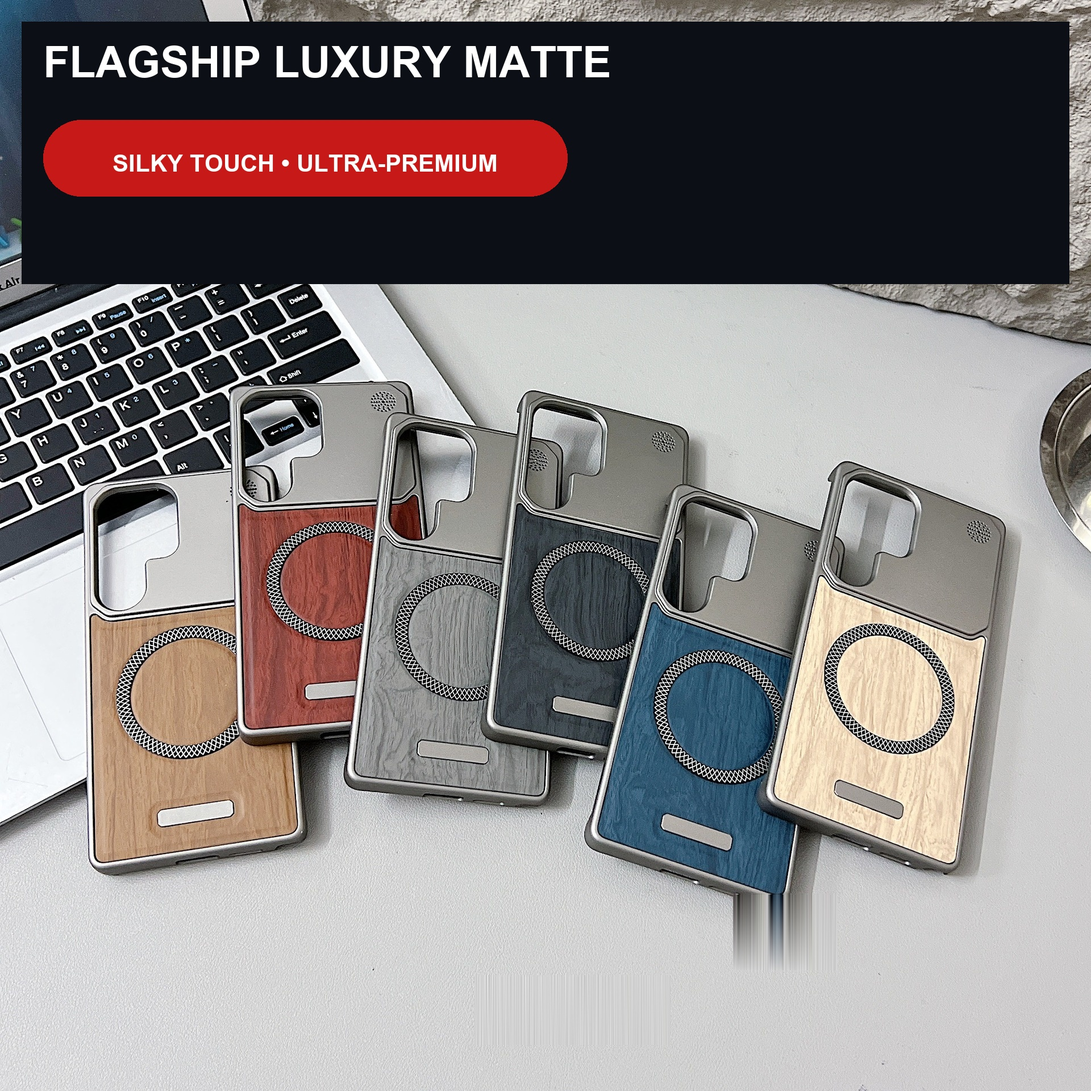
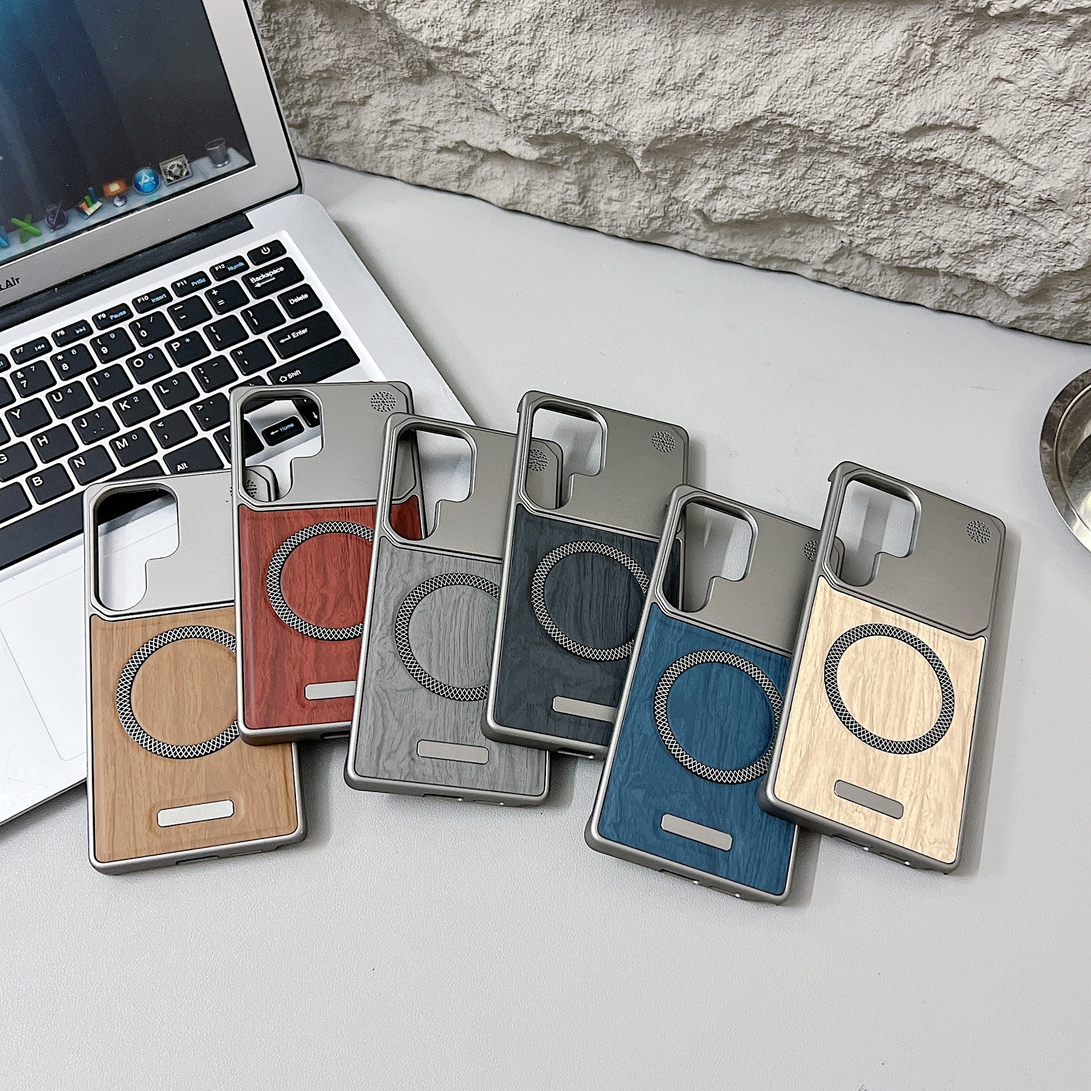
fix(translate): overhaul image translator to preserve clean photography and fix headline inpainting

Changed region(s): [[0.0, 0.0, 1.0, 0.2812], [0.6562, 0.8125, 0.75, 0.875]]

diff --git a/scripts/image_translator.py b/scripts/image_translator.py
@@ -473,6 +473,18 @@ class ImageTranslator:
             if x2 <= x1 or y2 <= y1:
                 continue
 
+            # Strict guard against smearing clean non-watermarked areas or subject matter:
+            # Watermarks only exist on flat uniform backgrounds where top/bottom borders match.
+            top_pixels = [im.getpixel((x, max(0, y1 - 2)))[:3] for x in range(x1, x2)]
+            bot_pixels = [im.getpixel((x, min(h - 1, y2 + 2)))[:3] for x in range(x1, x2)]
+            avg_diff = sum(sum(abs(top_pixels[i][c] - bot_pixels[i][c]) for c in range(3)) for i in range(len(top_pixels))) / len(top_pixels)
+            rv = max(p[0] for p in top_pixels) - min(p[0] for p in top_pixels)
+            gv = max(p[1] for p in top_pixels) - min(p[1] for p in top_pixels)
+            bv = max(p[2] for p in top_pixels) - min(p[2] for p in top_pixels)
+            max_v = max(rv, gv, bv)
+            if avg_diff > 35 or max_v > 35:
+                continue
+
             top_sample = im.getpixel((int((x1 + x2) / 2), max(0, y1 - 2)))[:3]
 
             # Sample patch center with dense grid to detect thin watermark text strokes
@@ -490,8 +502,6 @@ class ImageTranslator:
                 for p in center_samples
             )
             if has_contrast:
-                top_pixels = [im.getpixel((x, max(0, y1 - 2)))[:3] for x in range(x1, x2)]
-                bot_pixels = [im.getpixel((x, min(h - 1, y2 + 2)))[:3] for x in range(x1, x2)]
                 bh = y2 - y1
                 for y in range(y1, y2):
                     fy = (y - y1) / float(bh - 1) if bh > 1 else 0.0
@@ -662,9 +672,13 @@ class ImageTranslator:
         material: str,
     ):
         """Translates Hard PC / Magnetic Matte gallery images across 800x800 and 1600x1600."""
-        # gallery_01: Magnetic Frosted showcase + packaging box spine
+        # gallery_01: Check for top headline banner or packaging box spine
         if "01" in fname:
-            if w >= 1200:
+            # 1. Check for packaging box spine (e.g. Honor X80i / Realme Neo8 1600x1600 AF Lens Showcase)
+            px = [im.getpixel((int(0.04 * w), int(y * h)))[:3] for y in [0.2, 0.4, 0.6, 0.8]]
+            is_spine = all(abs(c[0] - 56) < 15 and abs(c[1] - 60) < 15 and abs(c[2] - 71) < 15 for c in px)
+
+            if is_spine and w >= 1200:
                 # 1600x1600 Magnetic Matte AF Lens Showcase (Honor X80i style)
                 # 1. Left Spine Box (covers vertical Chinese on box spine completely)
                 spine_box = self.scale_box((0.015, 0.10, 0.08, 0.90), w, h)
@@ -719,57 +733,85 @@ class ImageTranslator:
                     draw.text((scaled_b[0] + (scaled_b[2] - scaled_b[0] - bw) // 2, scaled_b[1] + (scaled_b[3] - scaled_b[1] - bh) // 2), b_text, fill=(30, 30, 30), font=f_sm)
                 return
 
-            # 800x800 Frosted PC showcase (Realme Neo8 style)
-            bg = (175, 175, 175)
+            # 2. Check for Top Horizontal Headline Banner (e.g. S26 Ultra Wood Grain '无边框木纹磁吸壳')
+            headline_box = (int(0.24 * w), int(0.01 * h), int(0.98 * w), int(0.13 * h))
+            crop_hl = im.crop(headline_box)
+            dark_hl = sum(1 for x in range(0, crop_hl.width, 5) for y in range(0, crop_hl.height, 5) if sum(crop_hl.getpixel((x, y))) / 3 < 50)
+            tot_hl = sum(1 for x in range(0, crop_hl.width, 5) for y in range(0, crop_hl.height, 5))
+            has_top_headline = (dark_hl / tot_hl) > 0.12 if tot_hl > 0 else False
 
-            # Block 1: Title covering '磁吸磨砂壳' without cutting glyphs
-            title_box = self.scale_box((0.55, 0.32, 1.0, 0.45), w, h)
-            draw.rectangle(title_box, fill=bg)
-            f_title, tw, th, _ = self.fit_text(draw, "MAGNETIC", "arialbd.ttf", int(0.40 * w), int(0.055 * h), start_size=int(0.045 * w))
-            draw.text((int(0.70 * w), int(0.335 * h)), "MAGNETIC", fill=(255, 255, 255), font=f_title)
-            draw.text((int(0.70 * w), int(0.390 * h)), "FROSTED", fill=(255, 255, 255), font=f_title)
+            if has_top_headline:
+                from PIL import ImageFilter
+                # Clone clean background texture from immediately below the text banner
+                sample_y1 = int(0.135 * h)
+                sample_y2 = int(0.150 * h)
+                sample_x1 = int(0.380 * w)
+                sample_x2 = int(0.780 * w)
 
-            # Block 2: Icon labels covering '磨砂背板' and old labels
-            icon_box = self.scale_box((0.55, 0.515, 1.0, 0.565), w, h)
-            draw.rectangle(icon_box, fill=bg)
-            f_icon, _, _, _ = self.fit_text(draw, "FROSTED", "segoeui.ttf", int(0.12 * w), int(0.025 * h), start_size=int(0.016 * w))
-            draw.text((int(0.72 * w), int(0.525 * h)), "FROSTED", fill=(255, 255, 255), font=f_icon)
-            draw.text((int(0.83 * w), int(0.525 * h)), "DROP-PROOF", fill=(255, 255, 255), font=f_icon)
-            draw.text((int(0.93 * w), int(0.525 * h)), "ANTI-SMUDGE", fill=(255, 255, 255), font=f_icon)
+                sample_patch = im.crop((sample_x1, sample_y1, sample_x2, sample_y2))
+                banner_x1 = int(0.240 * w)
+                banner_y1 = int(0.012 * h)
+                banner_w = int(0.740 * w)
+                banner_h = int(0.118 * h)
 
-            # Block 3: Compatible covering '适用于:'
-            comp_box = self.scale_box((0.55, 0.59, 0.95, 0.655), w, h)
-            draw.rectangle(comp_box, fill=bg)
-            f_comp, _, _, _ = self.fit_text(draw, "COMPATIBLE:", "segoeuib.ttf", int(0.35 * w), int(0.035 * h), start_size=int(0.028 * w))
-            draw.text((int(0.70 * w), int(0.605 * h)), "COMPATIBLE:", fill=(255, 255, 255), font=f_comp)
+                bg_fill = sample_patch.resize((banner_w, banner_h)).filter(ImageFilter.GaussianBlur(radius=int(max(2, 0.003 * w))))
+                im.paste(bg_fill, (banner_x1, banner_y1))
+
+                title_text = "FRAMELESS WOOD GRAIN MAGNETIC" if "wood" in model_name.lower() or "s26" in model_name.lower() else f"OFFICIAL {model_name.upper()} CASE"
+                try:
+                    font_title = ImageFont.truetype("C:/Windows/Fonts/impact.ttf", int(0.052 * w))
+                except Exception:
+                    font_title = ImageFont.truetype("C:/Windows/Fonts/arialbd.ttf", int(0.046 * w))
+
+                tx = banner_x1 + int(0.01 * w)
+                ty = banner_y1 + int(0.03 * h)
+                for ox in range(-3, 4):
+                    for oy in range(-3, 4):
+                        if ox != 0 or oy != 0:
+                            draw.text((tx + ox, ty + oy), title_text, font=font_title, fill=(30, 30, 30))
+
+                draw.text((tx, ty), title_text, font=font_title, fill=(255, 255, 255))
+                return
+
+            # 3. Check for 800x800 Frosted PC showcase (Realme Neo8 style right-hand banner)
+            corner_col = im.getpixel((int(0.05 * w), int(0.05 * h)))[:3]
+            is_legacy_frosted = abs(corner_col[0] - 175) < 35 and abs(corner_col[1] - 175) < 35 and abs(corner_col[2] - 175) < 35
+
+            if is_legacy_frosted:
+                bg = (175, 175, 175)
+
+                # Block 1: Title covering '磁吸磨砂壳' without cutting glyphs
+                title_box = self.scale_box((0.55, 0.32, 1.0, 0.45), w, h)
+                draw.rectangle(title_box, fill=bg)
+                f_title, tw, th, _ = self.fit_text(draw, "MAGNETIC", "arialbd.ttf", int(0.40 * w), int(0.055 * h), start_size=int(0.045 * w))
+                draw.text((int(0.70 * w), int(0.335 * h)), "MAGNETIC", fill=(255, 255, 255), font=f_title)
+                draw.text((int(0.70 * w), int(0.390 * h)), "FROSTED", fill=(255, 255, 255), font=f_title)
+
+                # Block 2: Icon labels covering '磨砂背板' and old labels
+                icon_box = self.scale_box((0.55, 0.515, 1.0, 0.565), w, h)
+                draw.rectangle(icon_box, fill=bg)
+                f_icon, _, _, _ = self.fit_text(draw, "FROSTED", "segoeui.ttf", int(0.12 * w), int(0.025 * h), start_size=int(0.016 * w))
+                draw.text((int(0.72 * w), int(0.525 * h)), "FROSTED", fill=(255, 255, 255), font=f_icon)
+                draw.text((int(0.83 * w), int(0.525 * h)), "DROP-PROOF", fill=(255, 255, 255), font=f_icon)
+                draw.text((int(0.93 * w), int(0.525 * h)), "ANTI-SMUDGE", fill=(255, 255, 255), font=f_icon)
+
+                # Block 3: Compatible covering '适用于:'
+                comp_box = self.scale_box((0.55, 0.59, 0.95, 0.655), w, h)
+                draw.rectangle(comp_box, fill=bg)
+                f_comp, _, _, _ = self.fit_text(draw, "COMPATIBLE:", "segoeuib.ttf", int(0.35 * w), int(0.035 * h), start_size=int(0.028 * w))
+                draw.text((int(0.70 * w), int(0.605 * h)), "COMPATIBLE:", fill=(255, 255, 255), font=f_comp)
+                return
+
+            # Clean product photography with no Chinese text: leave pristine
             return
 
         # gallery_02: Scratch Resistant / Studio Backdrop
         if "02" in fname:
-            sample_col = im.getpixel((int(0.10 * w), int(0.05 * h)))[:3]
-            if sum(sample_col) > 400:
-                # Light studio textured backdrop: Frosted PC header pill
-                header_box = self.scale_box((0.20, 0.02, 0.80, 0.19), w, h)
-                draw.rectangle(header_box, fill=(246, 246, 246))
-                f_title, tw, th, _ = self.fit_text(draw, "FROSTED PC · MAGNETIC", "arialbd.ttf", int(0.55 * w), int(0.055 * h), start_size=int(0.038 * w))
-                draw.text((header_box[0] + (header_box[2] - header_box[0] - tw) // 2, header_box[1] + int(0.02 * h)), "FROSTED PC · MAGNETIC", fill=(25, 25, 25), font=f_title)
+            corner_col = im.getpixel((int(0.05 * w), int(0.05 * h)))[:3]
+            is_dark_infographic = sum(corner_col) < 120 and max(corner_col) < 50
 
-                model_lbl = f"FOR {model_name.upper()}"
-                f_p1, mw, mh, _ = self.fit_text(draw, model_lbl, "arialbd.ttf", int(0.26 * w), int(0.035 * h), start_size=int(0.019 * w))
-                p1_w = mw + int(0.03 * w)
-                p1_h = int(0.055 * h)
-                p1_x = header_box[0] + int(0.02 * w)
-                p1_y = header_box[1] + int(0.09 * h)
-                draw.rounded_rectangle([p1_x, p1_y, p1_x + p1_w, p1_y + p1_h], radius=int(0.025 * h), fill=(255, 255, 255), outline=(220, 220, 225), width=1)
-                draw.text((p1_x + (p1_w - mw) // 2, p1_y + (p1_h - mh) // 2), model_lbl, fill=(30, 30, 35), font=f_p1)
-
-                f_p2, cw, ch, _ = self.fit_text(draw, "PEAK ROCK", "arialbd.ttf", int(0.26 * w), int(0.035 * h), start_size=int(0.019 * w))
-                p2_w = cw + int(0.03 * w)
-                p2_x = p1_x + p1_w + int(0.02 * w)
-                draw.rounded_rectangle([p2_x, p1_y, p2_x + p2_w, p1_y + p1_h], radius=int(0.025 * h), fill=(20, 20, 25))
-                draw.text((p2_x + (p2_w - cw) // 2, p1_y + (p1_h - ch) // 2), "PEAK ROCK", fill=(255, 255, 255), font=f_p2)
-            else:
-                # Dark technical backdrop
+            if is_dark_infographic:
+                # Dark technical backdrop (Realme Neo8 / Honor X80i infographic)
                 top_box = self.scale_box((0.02, 0.02, 0.98, 0.26), w, h)
                 self.inpaint_gradient(im, top_box, c_top=(12, 16, 22), c_bottom=(12, 16, 22))
                 title = "SCRATCH & ABRASION RESISTANT"
@@ -781,12 +823,46 @@ class ImageTranslator:
                 tag = "DURABLE HARD PC MATERIAL"
                 f_tag, _, _, _ = self.fit_text(draw, tag, "arialbd.ttf", int(0.92 * w), int(0.035 * h), start_size=int(0.024 * w))
                 draw.text((int(0.04 * w), int(0.155 * h)), tag, fill=(255, 120, 0), font=f_tag)
+                return
+
+            # Check for light studio infographic with Chinese text in header box
+            header_box = (int(0.20 * w), int(0.02 * h), int(0.80 * w), int(0.19 * h))
+            crop_h = im.crop(header_box)
+            dark_count = sum(1 for x in range(0, crop_h.width, 5) for y in range(0, crop_h.height, 5) if sum(crop_h.getpixel((x, y))) / 3 < 50)
+            tot_h = sum(1 for x in range(0, crop_h.width, 5) for y in range(0, crop_h.height, 5))
+            has_light_header = (dark_count / tot_h) > 0.08 if tot_h > 0 else False
+
+            if has_light_header and sum(corner_col) > 400:
+                # Light studio textured backdrop: Frosted PC header pill
+                h_box = self.scale_box((0.20, 0.02, 0.80, 0.19), w, h)
+                draw.rectangle(h_box, fill=(246, 246, 246))
+                f_title, tw, th, _ = self.fit_text(draw, "FROSTED PC · MAGNETIC", "arialbd.ttf", int(0.55 * w), int(0.055 * h), start_size=int(0.038 * w))
+                draw.text((h_box[0] + (h_box[2] - h_box[0] - tw) // 2, h_box[1] + int(0.02 * h)), "FROSTED PC · MAGNETIC", fill=(25, 25, 25), font=f_title)
+
+                model_lbl = f"FOR {model_name.upper()}"
+                f_p1, mw, mh, _ = self.fit_text(draw, model_lbl, "arialbd.ttf", int(0.26 * w), int(0.035 * h), start_size=int(0.019 * w))
+                p1_w = mw + int(0.03 * w)
+                p1_h = int(0.055 * h)
+                p1_x = h_box[0] + int(0.02 * w)
+                p1_y = h_box[1] + int(0.09 * h)
+                draw.rounded_rectangle([p1_x, p1_y, p1_x + p1_w, p1_y + p1_h], radius=int(0.025 * h), fill=(255, 255, 255), outline=(220, 220, 225), width=1)
+                draw.text((p1_x + (p1_w - mw) // 2, p1_y + (p1_h - mh) // 2), model_lbl, fill=(30, 30, 35), font=f_p1)
+
+                f_p2, cw, ch, _ = self.fit_text(draw, "PEAK ROCK", "arialbd.ttf", int(0.26 * w), int(0.035 * h), start_size=int(0.019 * w))
+                p2_w = cw + int(0.03 * w)
+                p2_x = p1_x + p1_w + int(0.02 * w)
+                draw.rounded_rectangle([p2_x, p1_y, p2_x + p2_w, p1_y + p1_h], radius=int(0.025 * h), fill=(20, 20, 25))
+                draw.text((p2_x + (p2_w - cw) // 2, p1_y + (p1_h - ch) // 2), "PEAK ROCK", fill=(255, 255, 255), font=f_p2)
+                return
+
+            # Clean product photography with no Chinese text: leave pristine
             return
 
         # gallery_03: Raised Camera Frame & Lens Protection
         if "03" in fname:
-            sample_col = im.getpixel((int(0.05 * w), int(0.05 * h)))[:3]
-            is_beige = sum(sample_col) > 500
+            corner_col = im.getpixel((int(0.05 * w), int(0.05 * h)))[:3]
+            is_beige = abs(corner_col[0] - 235) < 25 and abs(corner_col[1] - 222) < 25 and abs(corner_col[2] - 205) < 25
+            is_dark = sum(corner_col) < 120 and max(corner_col) < 50
 
             if is_beige:
                 # Extended box down to 0.49H to completely eliminate '保护手机镜头防刮花...'
@@ -799,7 +875,8 @@ class ImageTranslator:
                 f_sub, _, _, _ = self.fit_text(draw, "Precision bezel design shields camera lenses", "segoeui.ttf", int(0.56 * w), int(0.030 * h), start_size=int(0.020 * w))
                 draw.text((int(0.04 * w), int(0.190 * h)), "Precision bezel design shields camera lenses", fill=(70, 60, 55), font=f_sub)
                 draw.text((int(0.04 * w), int(0.225 * h)), "against scratches, drops, and everyday wear.", fill=(70, 60, 55), font=f_sub)
-            else:
+                return
+            elif is_dark:
                 top_box = self.scale_box((0.02, 0.02, 0.98, 0.26), w, h)
                 self.inpaint_gradient(im, top_box, c_top=(12, 16, 22), c_bottom=(12, 16, 22))
                 title = "FLAGSHIP LUXURY MATTE"
@@ -810,11 +887,19 @@ class ImageTranslator:
                 draw.rounded_rectangle(badge_box, radius=int(0.035 * h), fill=(200, 25, 25))
                 f_pill, pw, ph, _ = self.fit_text(draw, "SILKY TOUCH • ULTRA-PREMIUM", "arialbd.ttf", int(0.44 * w), int(0.045 * h), start_size=int(0.022 * w))
                 draw.text((badge_box[0] + (badge_box[2] - badge_box[0] - pw) // 2, badge_box[1] + (badge_box[3] - badge_box[1] - ph) // 2), "SILKY TOUCH • ULTRA-PREMIUM", fill=(255, 255, 255), font=f_pill)
-            return
+                return
 
+            # Clean product photography with no Chinese text: leave pristine
+            return
 
         # gallery_04: Precision Dust Mesh
         if "04" in fname:
+            corner_col = im.getpixel((int(0.05 * w), int(0.05 * h)))[:3]
+            is_dark_infographic = sum(corner_col) < 120 and max(corner_col) < 50
+            if not is_dark_infographic:
+                # Clean studio photography: leave pristine
+                return
+
             top_box = self.scale_box((0.02, 0.02, 0.98, 0.28), w, h)
             self.inpaint_gradient(im, top_box, c_top=(15, 18, 26), c_bottom=(15, 18, 26))
             f_title, _, _, _ = self.fit_text(draw, "PRECISION DUST MESH", "arialbd.ttf", int(0.90 * w), int(0.065 * h), start_size=int(0.038 * w))
@@ -832,6 +917,12 @@ class ImageTranslator:
 
         # gallery_05: Upgraded Frame & Comparison
         if "05" in fname:
+            corner_col = im.getpixel((int(0.05 * w), int(0.05 * h)))[:3]
+            is_dark_infographic = sum(corner_col) < 120 and max(corner_col) < 50
+            if not is_dark_infographic:
+                # Clean studio photography: leave pristine
+                return
+
             top_box = self.scale_box((0.02, 0.02, 0.98, 0.25), w, h)
             self.inpaint_gradient(im, top_box, c_top=(12, 16, 22), c_bottom=(12, 16, 22))
             title = "UPGRADED FRAME & BACKPLATE"
@@ -1034,6 +1125,17 @@ class ImageTranslator:
         clean_col: str,
     ):
         """Translates Frosted PC / Hard PC SKU images across (800x800, 1600x1600)."""
+        # Guard: Only translate if image actually contains Chinese infographic header banner text
+        box_probe = (int(0.20 * w), int(0.02 * h), int(0.80 * w), int(0.19 * h))
+        crop_probe = im.crop(box_probe)
+        dark_count = sum(1 for x in range(0, crop_probe.width, 10) for y in range(0, crop_probe.height, 10) if sum(crop_probe.getpixel((x, y))) / 3 < 50)
+        tot_probe = sum(1 for x in range(0, crop_probe.width, 10) for y in range(0, crop_probe.height, 10))
+        has_header_text = (dark_count / tot_probe) > 0.08 if tot_probe > 0 else False
+
+        if not has_header_text:
+            # Clean product photography with no Chinese text banner: leave 100% pristine
+            return
+
         box = self.scale_box((0.20, 0.02, 0.80, 0.19), w, h)
         draw.rectangle(box, fill=(246, 246, 246))
 
@@ -1175,9 +1277,35 @@ class ImageTranslator:
         }
 
     def _infer_color_from_sku(self, sku_code: str) -> str:
-        """Derives clean color name from SKU abbreviation token."""
-        code_upper = sku_code.upper()
+        """Derives clean color name from inventory.csv or SKU abbreviation token."""
+        code_upper = sku_code.upper().strip()
+
+        # 1. First check live inventory.csv if available
+        inv_path = os.path.abspath(os.path.join(os.path.dirname(__file__), "..", "inventory.csv"))
+        if os.path.exists(inv_path):
+            try:
+                import csv
+                with open(inv_path, "r", encoding="utf-8-sig") as f:
+                    for r in csv.DictReader(f):
+                        c = r.get("Product Code", "").strip().upper()
+                        col = r.get("Color", "").strip()
+                        if c and col and c == code_upper:
+                            return col
+            except Exception:
+                pass
+
+        # 2. Comprehensive SKU token color mapping
         mapping = {
+            "-LG-": "Light Gray Wood Grain",
+            "-DG-": "Dark Gray Wood Grain",
+            "-LY-": "Light Yellow Wood Grain",
+            "-PL-": "Poplar Wood Grain",
+            "-RP-": "Red Poplar Wood Grain",
+            "-CB-": "Cowboy Wood Grain",
+            "-PW-": "Poplar Wood Grain",
+            "-DW-": "Dark Gray Wood Grain",
+            "-WD-": "Wood Grain",
+            "-TB-": "Titanium Black",
             "-BK-": "Obsidian Black",
             "-WT-": "Antique White",
             "-GY-": "Titanium Gray",
@@ -1194,6 +1322,8 @@ class ImageTranslator:
             "-CL-": "Crystal Clear",
             "-SV-": "Titanium Silver",
             "-OR-": "Terracotta Orange",
+            "-YL-": "Yellow",
+            "-BR-": "Brown",
         }
         for token, col in mapping.items():
             if token in code_upper:
